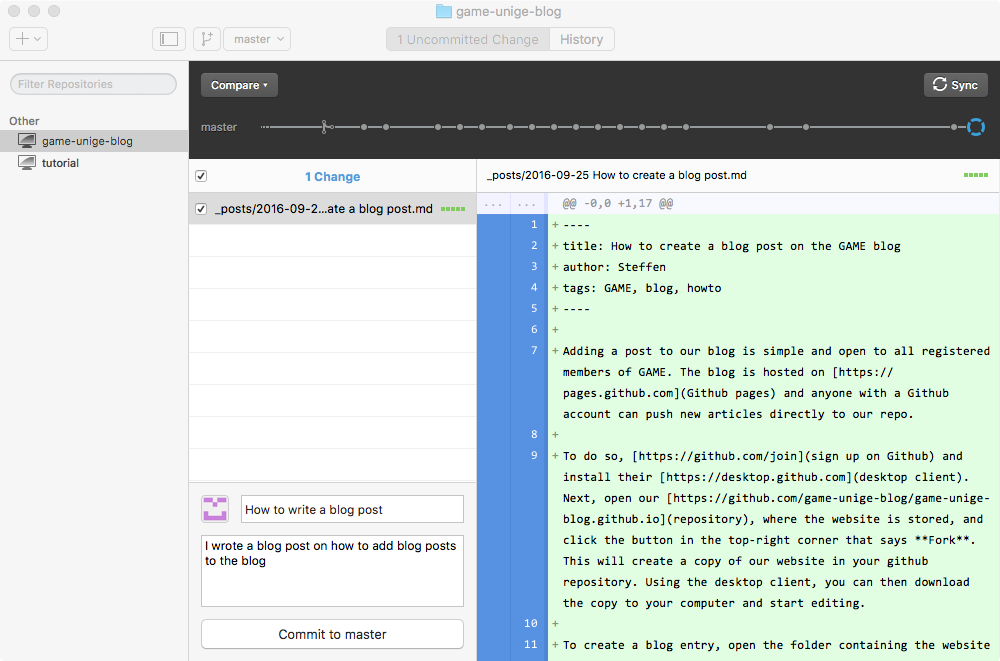
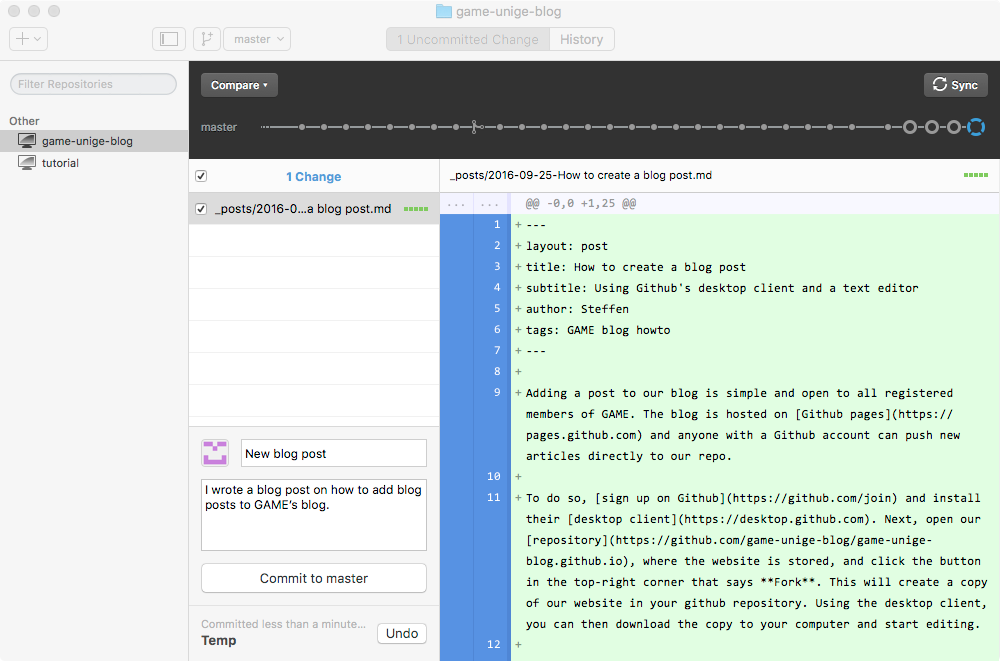
Updated blog post
Updated image in how to post

diff --git a/_posts/2016-09-25-How to create a blog post.md b/_posts/2016-09-25-How to create a blog post.md
@@ -1,0 +1,25 @@
+---
+layout: post
+title: How to create a blog post
+subtitle: Using Github's desktop client and a text editor
+author: Steffen
+tags: GAME blog howto
+---
+
+Adding a post to our blog is simple and open to all registered members of GAME. The blog is hosted on [Github pages](https://pages.github.com) and anyone with a Github account can push new articles directly to our repo. 
+
+To do so, [sign up on Github](https://github.com/join) and install their [desktop client](https://desktop.github.com). Next, open our [repository](https://github.com/game-unige-blog/game-unige-blog.github.io), where the website is stored, and click the button in the top-right corner that says **Fork**. This will create a copy of our website in your github repository. Using the desktop client, you can then download the copy to your computer and start editing. 
+
+To create a blog entry, open the folder containing the website and navigate to the folder *_post*. To create a new post, simply make a copy of any of the files in the folder, then change the file name to match today's date and add your post title after it. Your file should look something like this:
+
+    2016-10-26-The title of my blog entry.md
+
+To edit your blog entry, either open the file in your favorite text editor (I use [textmate](https://macromates.com)) and edit the header (the stuff between the "---") to include your *title*, *author*, and *tags* information. Then remove the text below the header and start writing. The blog uses markdown for formatting. It's the same stuff that e.g. wikipedia or stackoverflow use for text formatting and it's pretty straight forward once your tried it once. There's a good tutorial with the basics on [Github itself](https://guides.github.com/features/mastering-markdown/). You can also use [this converter](http://markitdown.medusis.com) to convert your formatted text into markdown, in case you've already written something in MS Word or on your wordpress blog or so. 
+
+Now you're almost done. The last thing to do is to send the changes you made on your computer to your Github account online (this is called a *commit*), and then to add the files to our website repo (this is called a *merge*). In the Github Desktop client, check the new file you created and add a bit of information in the two boxes below so we know what you're adding. Then hit *Commit to master* and then *Sync*, which will upload your changes to your copy (your "fork") of the website's repo. It should look something like this:
+
+![Github commit example]({{ site.baseurl }}/img/blog/github_commit_example.png)
+
+Now, click the merge icon on top of the window to send your changes to our repo. We'll get a notification and will then add your new post asap.
+
+If that's too complicated, you can also always send your blog posts to game@unige.ch.
